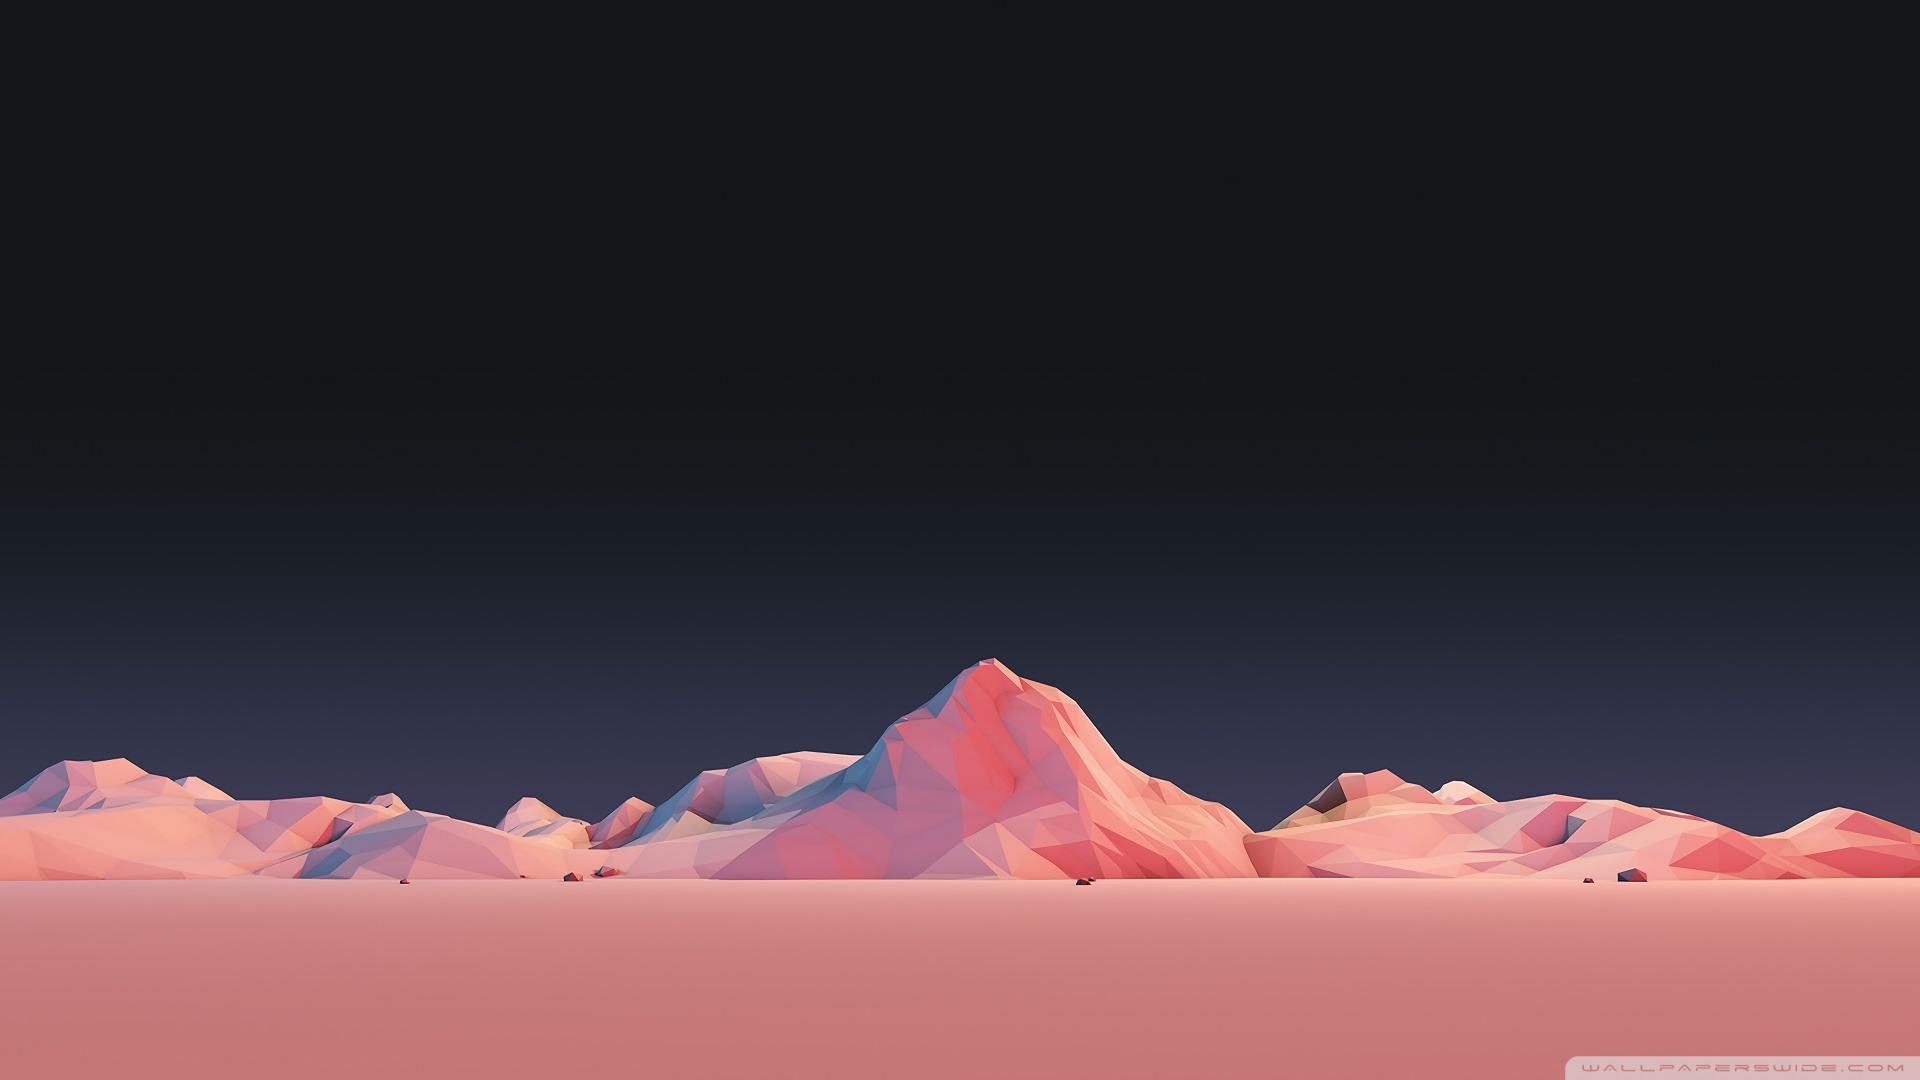
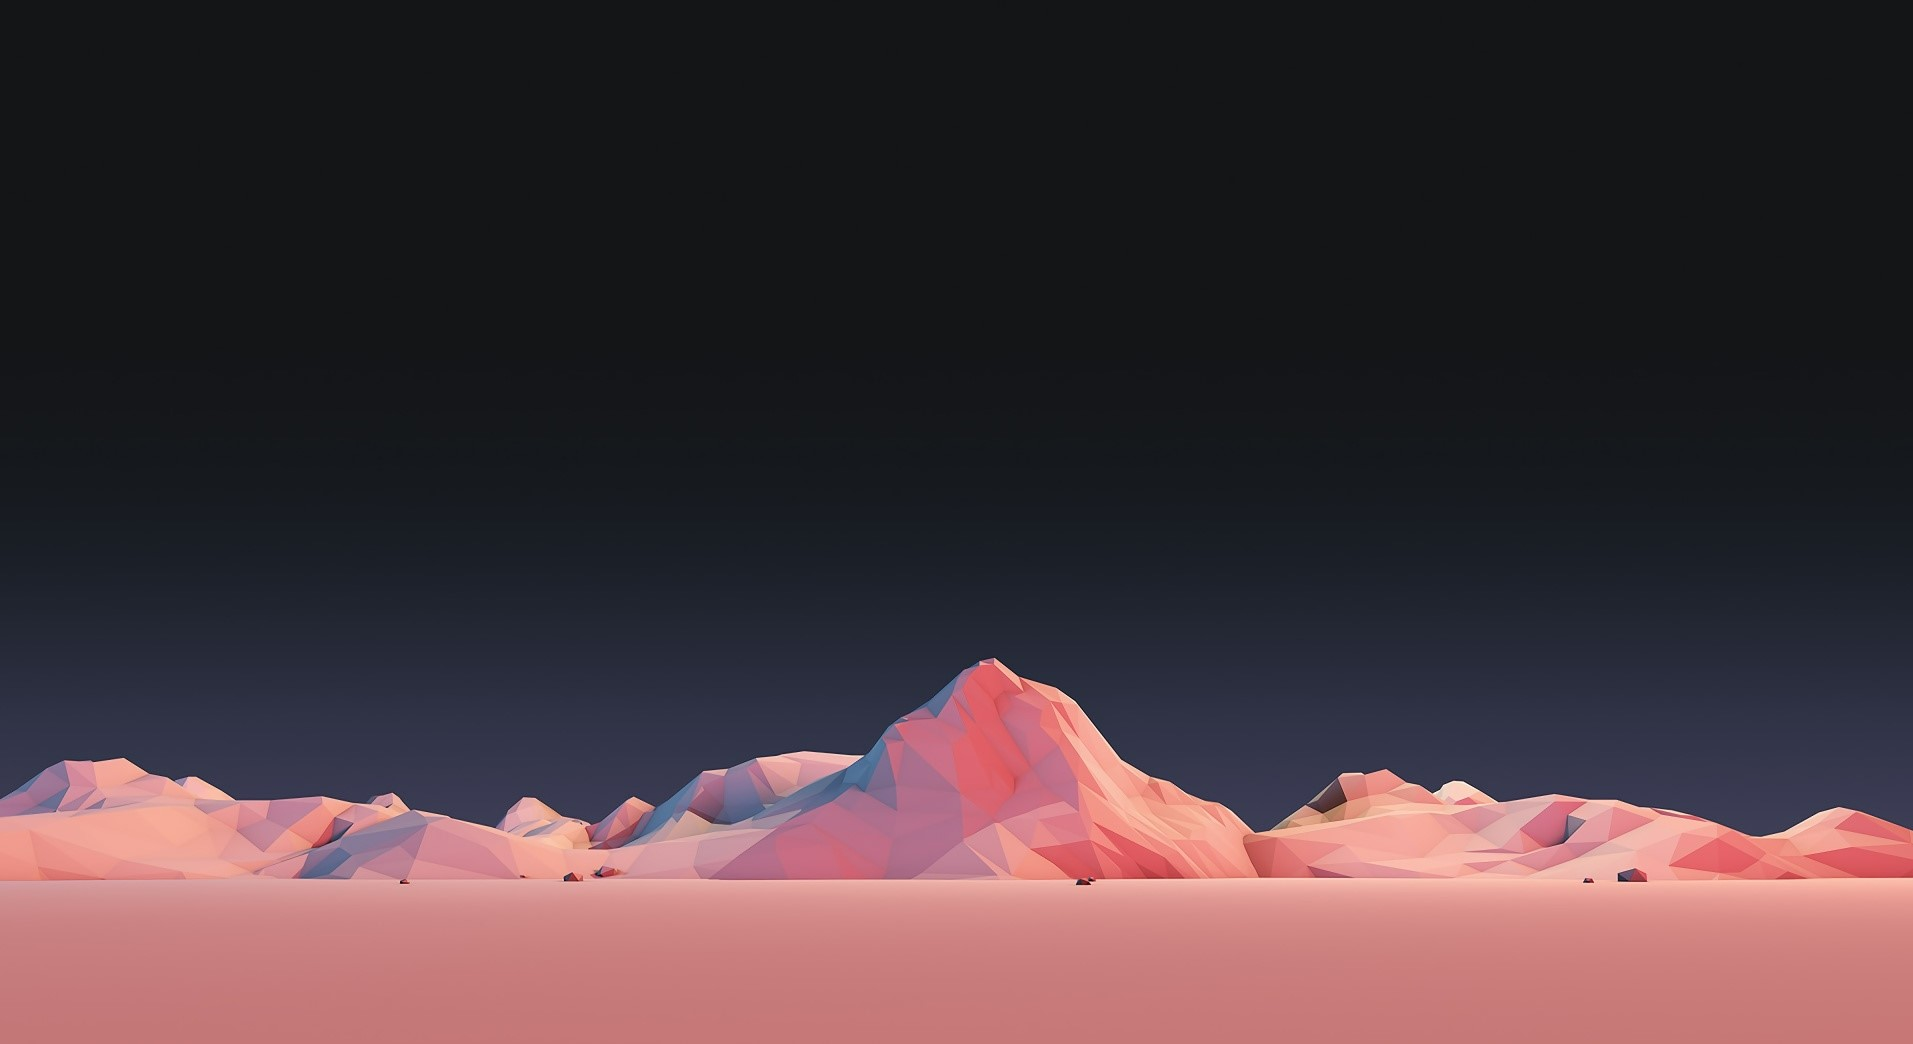
final

Changed region(s): [[0.0, 0.613, 1.0, 0.8582], [0.8019, 0.9808, 1.0, 1.0]]

diff --git a/Russian.html b/Russian.html
@@ -40,10 +40,10 @@
           <!-- Icons -->
            <div class="socials">
             <a href= "https://www.linkedin.com/in/sarah-lloyd-19673b135/" class= social> 
-              <svg xmlns="http://www.w3.org/2000/svg" fill = "white" width="50" height="50" viewBox="0 0 24 24"><path d="M19 0h-14c-2.761 0-5 2.239-5 5v14c0 2.761 2.239 5 5 5h14c2.762 0 5-2.239 5-5v-14c0-2.761-2.238-5-5-5zm-11 19h-3v-11h3v11zm-1.5-12.268c-.966 0-1.75-.79-1.75-1.764s.784-1.764 1.75-1.764 1.75.79 1.75 1.764-.783 1.764-1.75 1.764zm13.5 12.268h-3v-5.604c0-3.368-4-3.113-4 0v5.604h-3v-11h3v1.765c1.396-2.586 7-2.777 7 2.476v6.759z"/></svg> 
+              <svg xmlns="http://www.w3.org/2000/svg" fill = "lightpink" width="50" height="50" viewBox="0 0 24 24"><path d="M19 0h-14c-2.761 0-5 2.239-5 5v14c0 2.761 2.239 5 5 5h14c2.762 0 5-2.239 5-5v-14c0-2.761-2.238-5-5-5zm-11 19h-3v-11h3v11zm-1.5-12.268c-.966 0-1.75-.79-1.75-1.764s.784-1.764 1.75-1.764 1.75.79 1.75 1.764-.783 1.764-1.75 1.764zm13.5 12.268h-3v-5.604c0-3.368-4-3.113-4 0v5.604h-3v-11h3v1.765c1.396-2.586 7-2.777 7 2.476v6.759z"/></svg> 
             </a>
             <a href= "https://github.com/LanguageBytes" class= social> 
-                <svg xmlns="http://www.w3.org/2000/svg" fill= "pink" width="50" height="50" viewBox="0 0 24 24"><path d="M12 0c-6.626 0-12 5.373-12 12 0 5.302 3.438 9.8 8.207 11.387.599.111.793-.261.793-.577v-2.234c-3.338.726-4.033-1.416-4.033-1.416-.546-1.387-1.333-1.756-1.333-1.756-1.089-.745.083-.729.083-.729 1.205.084 1.839 1.237 1.839 1.237 1.07 1.834 2.807 1.304 3.492.997.107-.775.418-1.305.762-1.604-2.665-.305-5.467-1.334-5.467-5.931 0-1.311.469-2.381 1.236-3.221-.124-.303-.535-1.524.117-3.176 0 0 1.008-.322 3.301 1.23.957-.266 1.983-.399 3.003-.404 1.02.005 2.047.138 3.006.404 2.291-1.552 3.297-1.23 3.297-1.23.653 1.653.242 2.874.118 3.176.77.84 1.235 1.911 1.235 3.221 0 4.609-2.807 5.624-5.479 5.921.43.372.823 1.102.823 2.222v3.293c0 .319.192.694.801.576 4.765-1.589 8.199-6.086 8.199-11.386 0-6.627-5.373-12-12-12z"/></svg> 
+                <svg xmlns="http://www.w3.org/2000/svg" fill= "lightblue" width="50" height="50" viewBox="0 0 24 24"><path d="M12 0c-6.626 0-12 5.373-12 12 0 5.302 3.438 9.8 8.207 11.387.599.111.793-.261.793-.577v-2.234c-3.338.726-4.033-1.416-4.033-1.416-.546-1.387-1.333-1.756-1.333-1.756-1.089-.745.083-.729.083-.729 1.205.084 1.839 1.237 1.839 1.237 1.07 1.834 2.807 1.304 3.492.997.107-.775.418-1.305.762-1.604-2.665-.305-5.467-1.334-5.467-5.931 0-1.311.469-2.381 1.236-3.221-.124-.303-.535-1.524.117-3.176 0 0 1.008-.322 3.301 1.23.957-.266 1.983-.399 3.003-.404 1.02.005 2.047.138 3.006.404 2.291-1.552 3.297-1.23 3.297-1.23.653 1.653.242 2.874.118 3.176.77.84 1.235 1.911 1.235 3.221 0 4.609-2.807 5.624-5.479 5.921.43.372.823 1.102.823 2.222v3.293c0 .319.192.694.801.576 4.765-1.589 8.199-6.086 8.199-11.386 0-6.627-5.373-12-12-12z"/></svg> 
             </a>
           </div>
         </div>   

diff --git a/index.html b/index.html
@@ -42,7 +42,7 @@
        <!-- Icons -->
        <div class="socials">
         <a href= "https://www.linkedin.com/in/sarah-lloyd-19673b135/" class= social> 
-          <svg xmlns="http://www.w3.org/2000/svg" fill = "white" width="50" height="50" viewBox="0 0 24 24"><path d="M19 0h-14c-2.761 0-5 2.239-5 5v14c0 2.761 2.239 5 5 5h14c2.762 0 5-2.239 5-5v-14c0-2.761-2.238-5-5-5zm-11 19h-3v-11h3v11zm-1.5-12.268c-.966 0-1.75-.79-1.75-1.764s.784-1.764 1.75-1.764 1.75.79 1.75 1.764-.783 1.764-1.75 1.764zm13.5 12.268h-3v-5.604c0-3.368-4-3.113-4 0v5.604h-3v-11h3v1.765c1.396-2.586 7-2.777 7 2.476v6.759z"/></svg> 
+          <svg xmlns="http://www.w3.org/2000/svg" fill = "lightblue" width="50" height="50" viewBox="0 0 24 24"><path d="M19 0h-14c-2.761 0-5 2.239-5 5v14c0 2.761 2.239 5 5 5h14c2.762 0 5-2.239 5-5v-14c0-2.761-2.238-5-5-5zm-11 19h-3v-11h3v11zm-1.5-12.268c-.966 0-1.75-.79-1.75-1.764s.784-1.764 1.75-1.764 1.75.79 1.75 1.764-.783 1.764-1.75 1.764zm13.5 12.268h-3v-5.604c0-3.368-4-3.113-4 0v5.604h-3v-11h3v1.765c1.396-2.586 7-2.777 7 2.476v6.759z"/></svg> 
         </a>
         <a href= "https://github.com/LanguageBytes" class= social> 
             <svg xmlns="http://www.w3.org/2000/svg" fill= "pink" width="50" height="50" viewBox="0 0 24 24"><path d="M12 0c-6.626 0-12 5.373-12 12 0 5.302 3.438 9.8 8.207 11.387.599.111.793-.261.793-.577v-2.234c-3.338.726-4.033-1.416-4.033-1.416-.546-1.387-1.333-1.756-1.333-1.756-1.089-.745.083-.729.083-.729 1.205.084 1.839 1.237 1.839 1.237 1.07 1.834 2.807 1.304 3.492.997.107-.775.418-1.305.762-1.604-2.665-.305-5.467-1.334-5.467-5.931 0-1.311.469-2.381 1.236-3.221-.124-.303-.535-1.524.117-3.176 0 0 1.008-.322 3.301 1.23.957-.266 1.983-.399 3.003-.404 1.02.005 2.047.138 3.006.404 2.291-1.552 3.297-1.23 3.297-1.23.653 1.653.242 2.874.118 3.176.77.84 1.235 1.911 1.235 3.221 0 4.609-2.807 5.624-5.479 5.921.43.372.823 1.102.823 2.222v3.293c0 .319.192.694.801.576 4.765-1.589 8.199-6.086 8.199-11.386 0-6.627-5.373-12-12-12z"/></svg> 
@@ -54,7 +54,7 @@
  <!-- Profile-->
    <section id="About" class="sub-sect"> 
        <div class = "information">
-        <h2>About Me</h2>
+        <h2></h2>
         <p> Hi there! My name is Sarah and I'm learning programming languages <br> at the University of Birmingham. <br><br>
           Currently learning: Javascript, Node.js, Python, HTML5, CSS.</p>
         </div>
@@ -187,7 +187,7 @@
   <!-- Contact Section-->
    <footer>
     <div class="sub-sect2" id="Contact">
-      <h2 class = "contact-text">Contact Me</h2>
+      <h2 class = "contact-text">Contact</h2>
       <p class = "contact-text"> Sarahlloyd407a@gmail.com <br> <br>
       <a class="footer" href= "Russian.html">  Русский   
       </a> 

diff --git a/style.css b/style.css
@@ -616,7 +616,7 @@ only screen and (min-device-pixel-ratio: 1.5){
 @media screen and ( max-width: 900px ) {
 .hero {
   background-image: url("Images/low_poly_simple_mountain_landscape-wallpaper-1920x1080.jpg");
-  background-size: 200%;
+  background-size: 300%;
   background-repeat: no-repeat;
   color: rgb(255, 255, 255);
   font-size: 30px;
